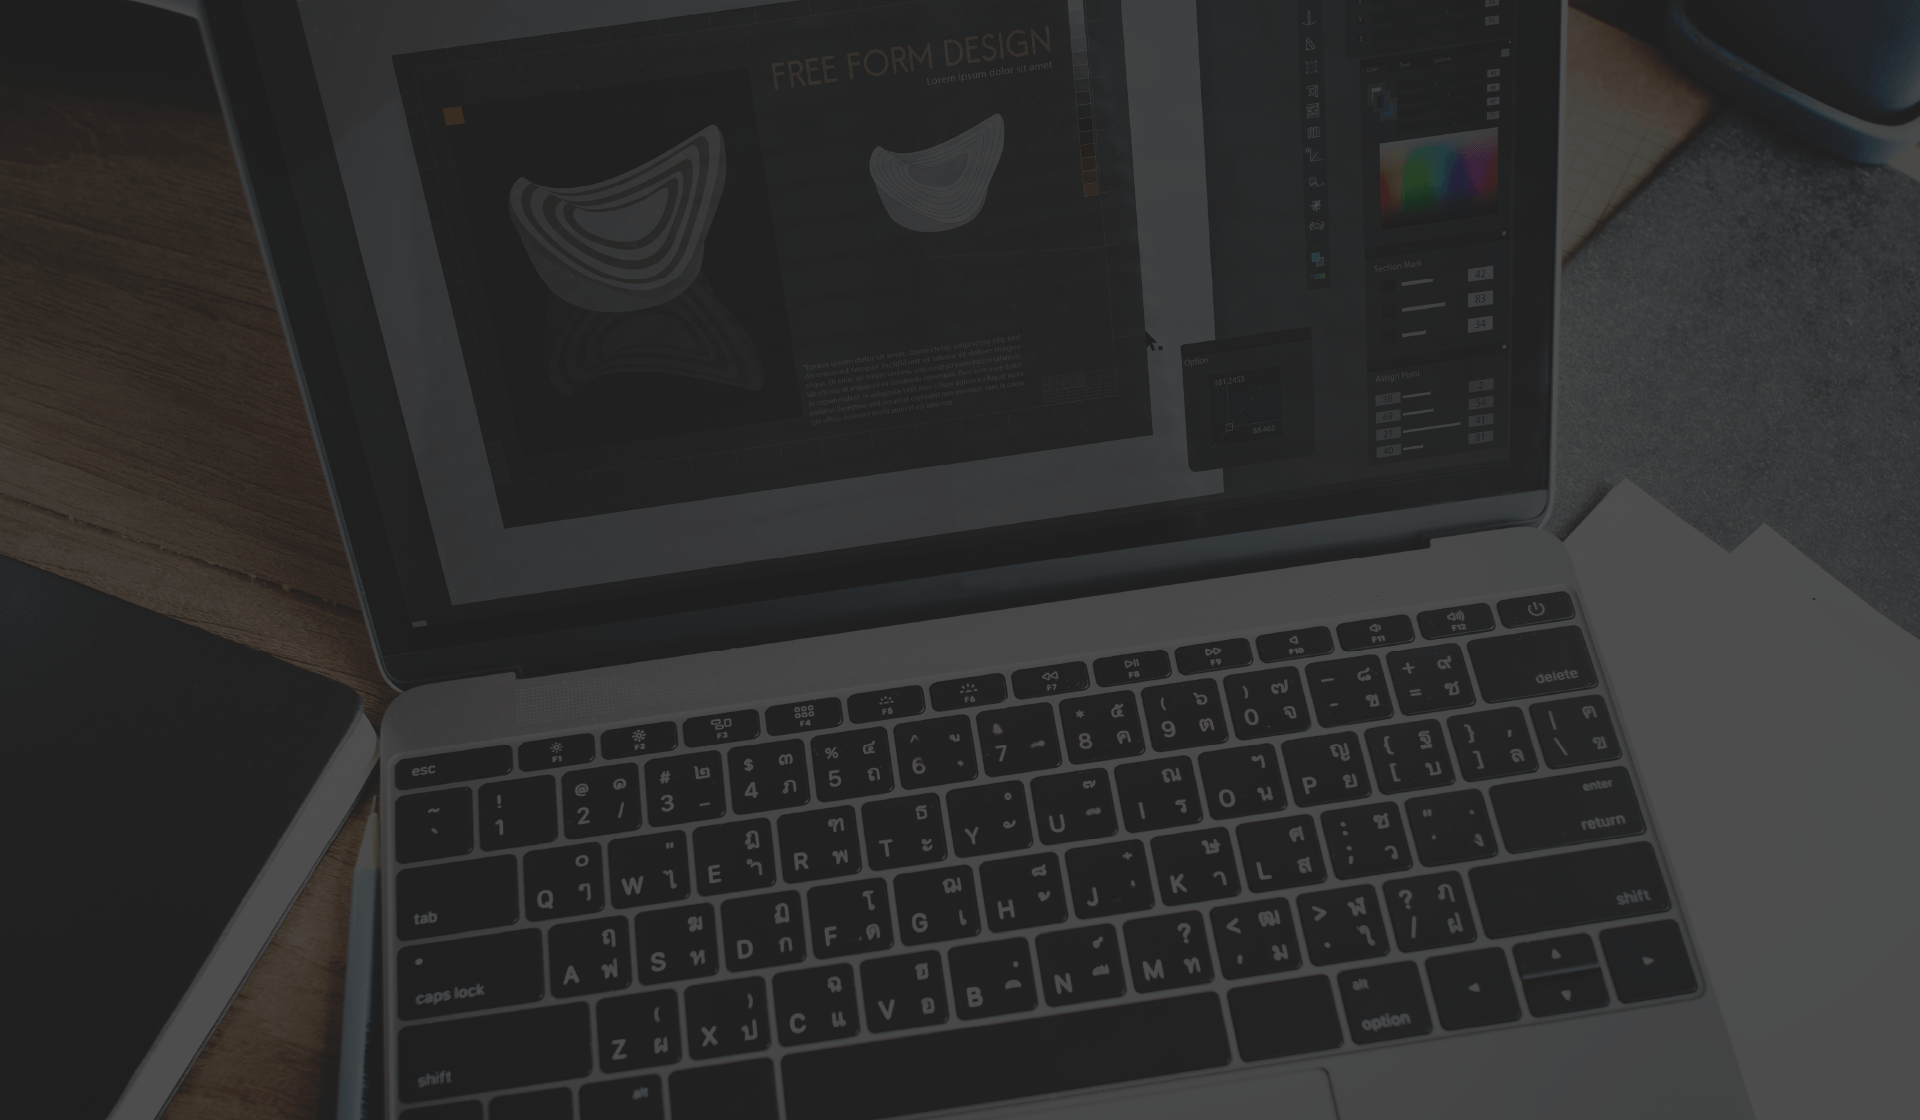
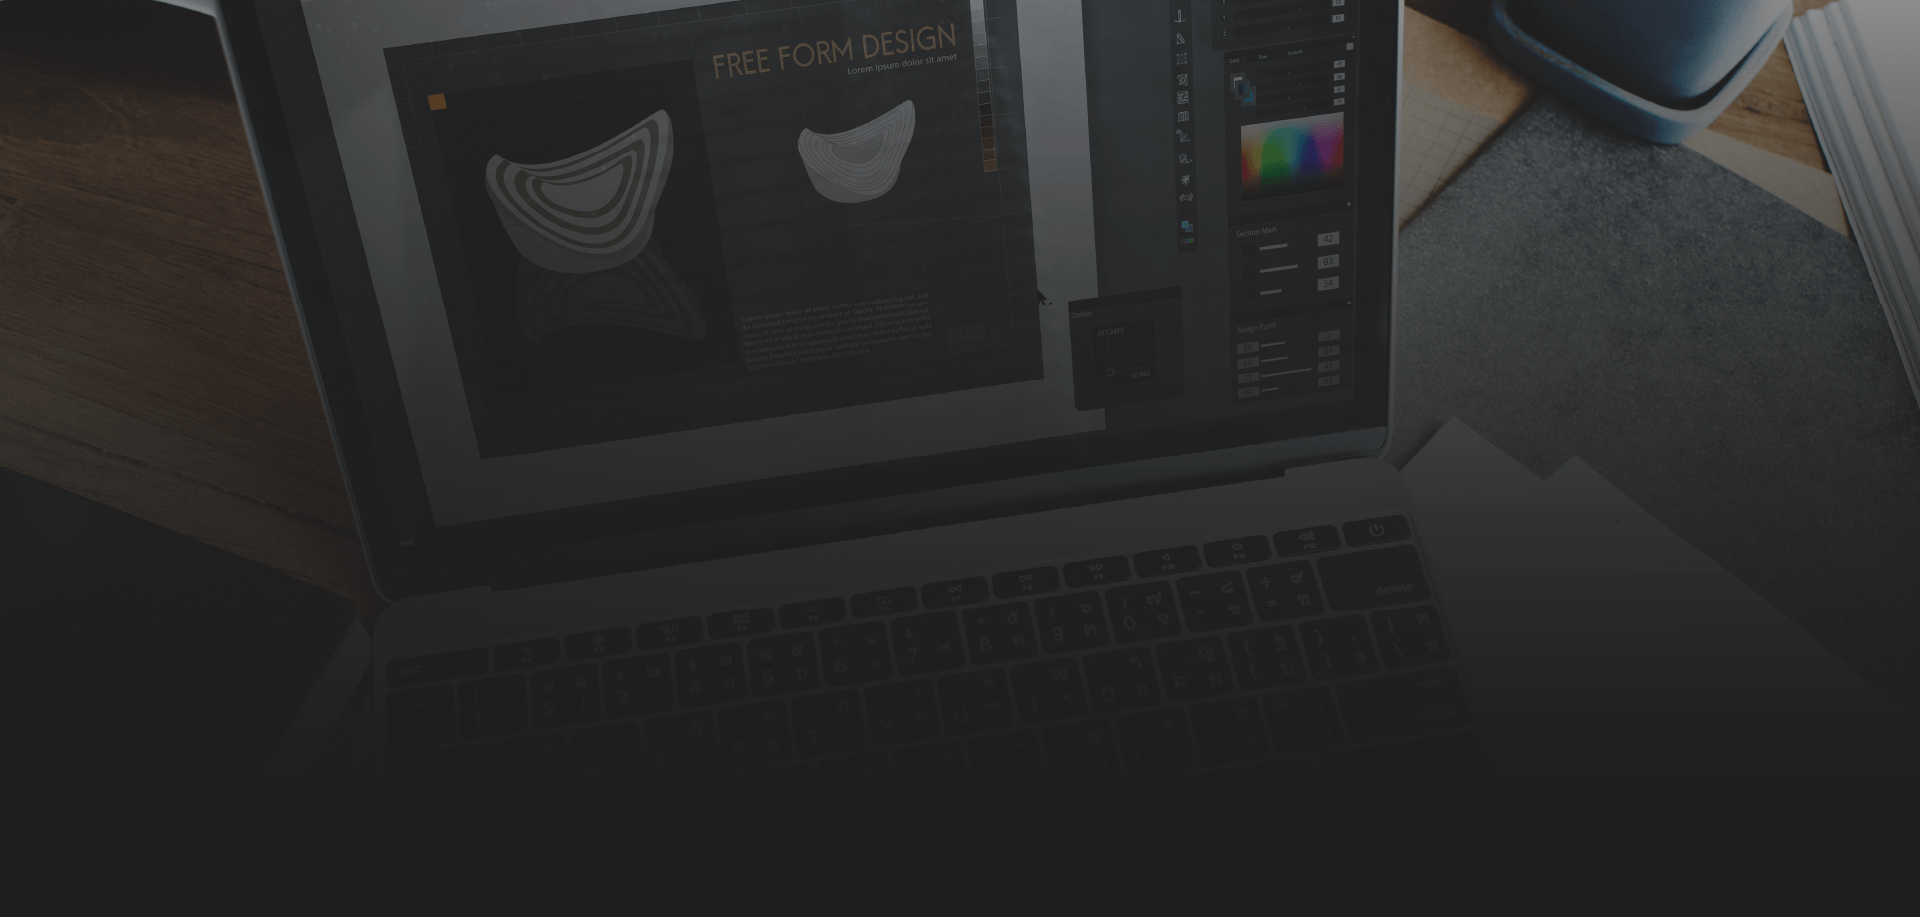
actualizacion

diff --git a/src/assets/css/css.css b/src/assets/css/css.css
@@ -82,10 +82,12 @@
 .header {
     display: flex;
     background-image: url("../img/banners/bannerInicio.png");
-    height: 46.875em;
+    background-position: center;
+    height: 55.875em;
     align-items: center;
     justify-content: center;
     flex-direction: column;
+
 }
 
 .logo {
@@ -123,9 +125,6 @@
     font-size: inherit;
     font-family: inherit;
     margin-bottom: 3em;
-}
-
-.servicios {
     width: 12rem;
     height: auto;
     color: #FBFAF6;
@@ -200,23 +199,9 @@
     color: #1e1e1e;
 }
 
-/* SECTION INICIO */
-
-.section {
-    display: flex;
-    height: 14.063em;
-    align-items: center;
-    justify-content: center;
-    background-color: #FBFAF6;
-    font-size: 2em;
-}
-
-
 /* ABOUT INICIO */
 
 .nosotros {
-
-    flex-direction: column;
     text-align: center;
     height: 83.625em;
     color: #FBFAF6;
@@ -255,7 +240,9 @@
 }
 
 .imgs img {
+    margin-top: 1.5em;
     width: 21.875em;
+    border-radius: 13%;
 }
 
 .perfiles {
@@ -263,8 +250,8 @@
     justify-content: center;
     align-items: center;
     font-size: 1.3em;
-    padding-right: 2em;
     padding-bottom: 2em;
+    margin-top: 1em;
 }
 
 .perfilNahue p {
@@ -314,6 +301,7 @@
     margin-top: 5em;
     align-items: center;
     flex-direction: column;
+    background-color: #1e1e1e;
 }
 
 .bannerText {
@@ -389,28 +377,32 @@
 
 .serviceContainer {
     display: flex;
-    flex-wrap: wrap;
     justify-content: center;
+    background-color: #1e1e1e;
+    flex-wrap: wrap;
     font-family: 'gilroy';
 }
 
+
 .servicesContain {
-    background-color: #1e1e1e;
     padding-top: 2.5em;
+    max-width: 1430px;
 }
 
 .serviciosText {
     font-size: 1.5em;
+    margin-top: 1.6em;
 }
+
 
 .serviciosText span {
     color: #EAFC88;
 }
 
 .serviciosText p {
-    margin-top: 0.3em;
+    margin-top: .8em;
     font-size: 1.2em;
-    margin-bottom: 1em;
+    margin-bottom: 2em;
 }
 
 .boxBorder {
@@ -449,9 +441,17 @@
     font-size: 1em;
 }
 
-/* Reglas de medios para dispositivos más pequeños */
-@media screen and (max-width: 768px) {
-    .serviceBox {
-        width: 90%;
-    }
+.botonServicios {
+    color: #1E1E1E;
+    background-color: #EAFC88;
+    border: none;
+    font-size: 1.3em;
+    padding: 1em 2.1em;
+    margin-top: 3em;
+    border-radius: 10%;
+    cursor: pointer;
+    border-radius: 50px;
+    font-weight: 600;
+    align-items: center;
+    margin-bottom: 2em;
 }

diff --git a/src/componentes/Inicio/Services.js b/src/componentes/Inicio/Services.js
@@ -1,6 +1,7 @@
 import React, { useState, useEffect } from 'react';
 import ListService from './ListService';
 import { getServices } from '../../services/getServices';
+import Works from './Works';
 
 const Services = () => {
     const [datos, setDatos] = useState([]);
@@ -15,16 +16,22 @@ const Services = () => {
     }, []);
 
     return (
-        <div className='servicesContain'>
-            <div className="containerList">
-                <div className="serviciosText">
-                    <h1>Nuestros <span>Servicios</span></h1>
-                    <p>What we do</p>
-                </div>
-                <div className='serviciosGen'>
-                    <ListService servicios={datos} />
+        <div className="serviceBackground">
+            <div className='servicesContain'>
+                <div className="containerList">
+                    <div className="serviciosText">
+                        <h1>Nuestros <span>Servicios</span></h1>
+                        <p>What we do</p>
+                    </div>
+                    <div className='serviciosGen'>
+                        <ListService servicios={datos} />
+                    </div>
+                    <div className="botonService">
+                        <a href="https://docs.google.com/forms/d/e/1FAIpQLSdZL63YOXJUQ2Ee7VYszlfoi8bPjeuZvujjGCmt-j_ewmTi5A/viewform?usp=sf_link" target="_blank" rel="noreferrer"><button className='botonServicios'>¡Cotizá tu proyecto!</button></a>
+                    </div>
                 </div>
             </div>
+            <Works />
         </div>
     );
 };

diff --git a/src/componentes/Inicio/Header.js b/src/componentes/Inicio/Header.js
@@ -1,6 +1,7 @@
 import React from 'react'
 import logob from '../../assets/img/logos/logob.png'
-import Section from './Section'
+import About from './About'
+import { Link } from 'react-router-dom'
 
 
 const Header = () => {
@@ -13,15 +14,17 @@ const Header = () => {
                 </div>
 
                 <div className="buttonHeader">
-                    <button className="servicios">
-                        <span className="circle" aria-hidden="true">
-                            <span className="icon"></span>
-                        </span>
-                        <span className="serviceText">Servicios</span>
-                    </button>
+                    <Link to="/servicios">
+                        <button className="servicios">
+                            <span className="circle" aria-hidden="true">
+                                <span className="icon"></span>
+                            </span>
+                            <span className="serviceText">Servicios</span>
+                        </button>
+                    </Link>
                 </div>
             </div>
-            <Section />
+            <About />
         </div>
     )
 }

diff --git a/src/services/slider.js b/src/services/slider.js
@@ -1,0 +1,38 @@
+import React from 'react'
+import Slider from "react-slick";
+import "slick-carousel/slick/slick.css";
+import "slick-carousel/slick/slick-theme.css";
+
+const slider = () => {
+    var settings = {
+        dots: true,
+        infinite: true,
+        speed: 500,
+        slidesToShow: 1,
+        slidesToScroll: 1,
+    }
+    return (
+        <Slider {...settings}>
+            <div>
+                <h3>1</h3>
+            </div>
+            <div>
+                <h3>2</h3>
+            </div>
+            <div>
+                <h3>3</h3>
+            </div>
+            <div>
+                <h3>4</h3>
+            </div>
+            <div>
+                <h3>5</h3>
+            </div>
+            <div>
+                <h3>6</h3>
+            </div>
+        </Slider>
+    );
+}
+
+export default slider;

diff --git a/src/componentes/Inicio/Works.js b/src/componentes/Inicio/Works.js
@@ -1,0 +1,12 @@
+import React from 'react'
+import Slider from 'react-slick'
+
+const Works = () => {
+    return (
+        <div className='worksContainer'>
+            <Slider />
+        </div>
+    )
+}
+
+export default Works
